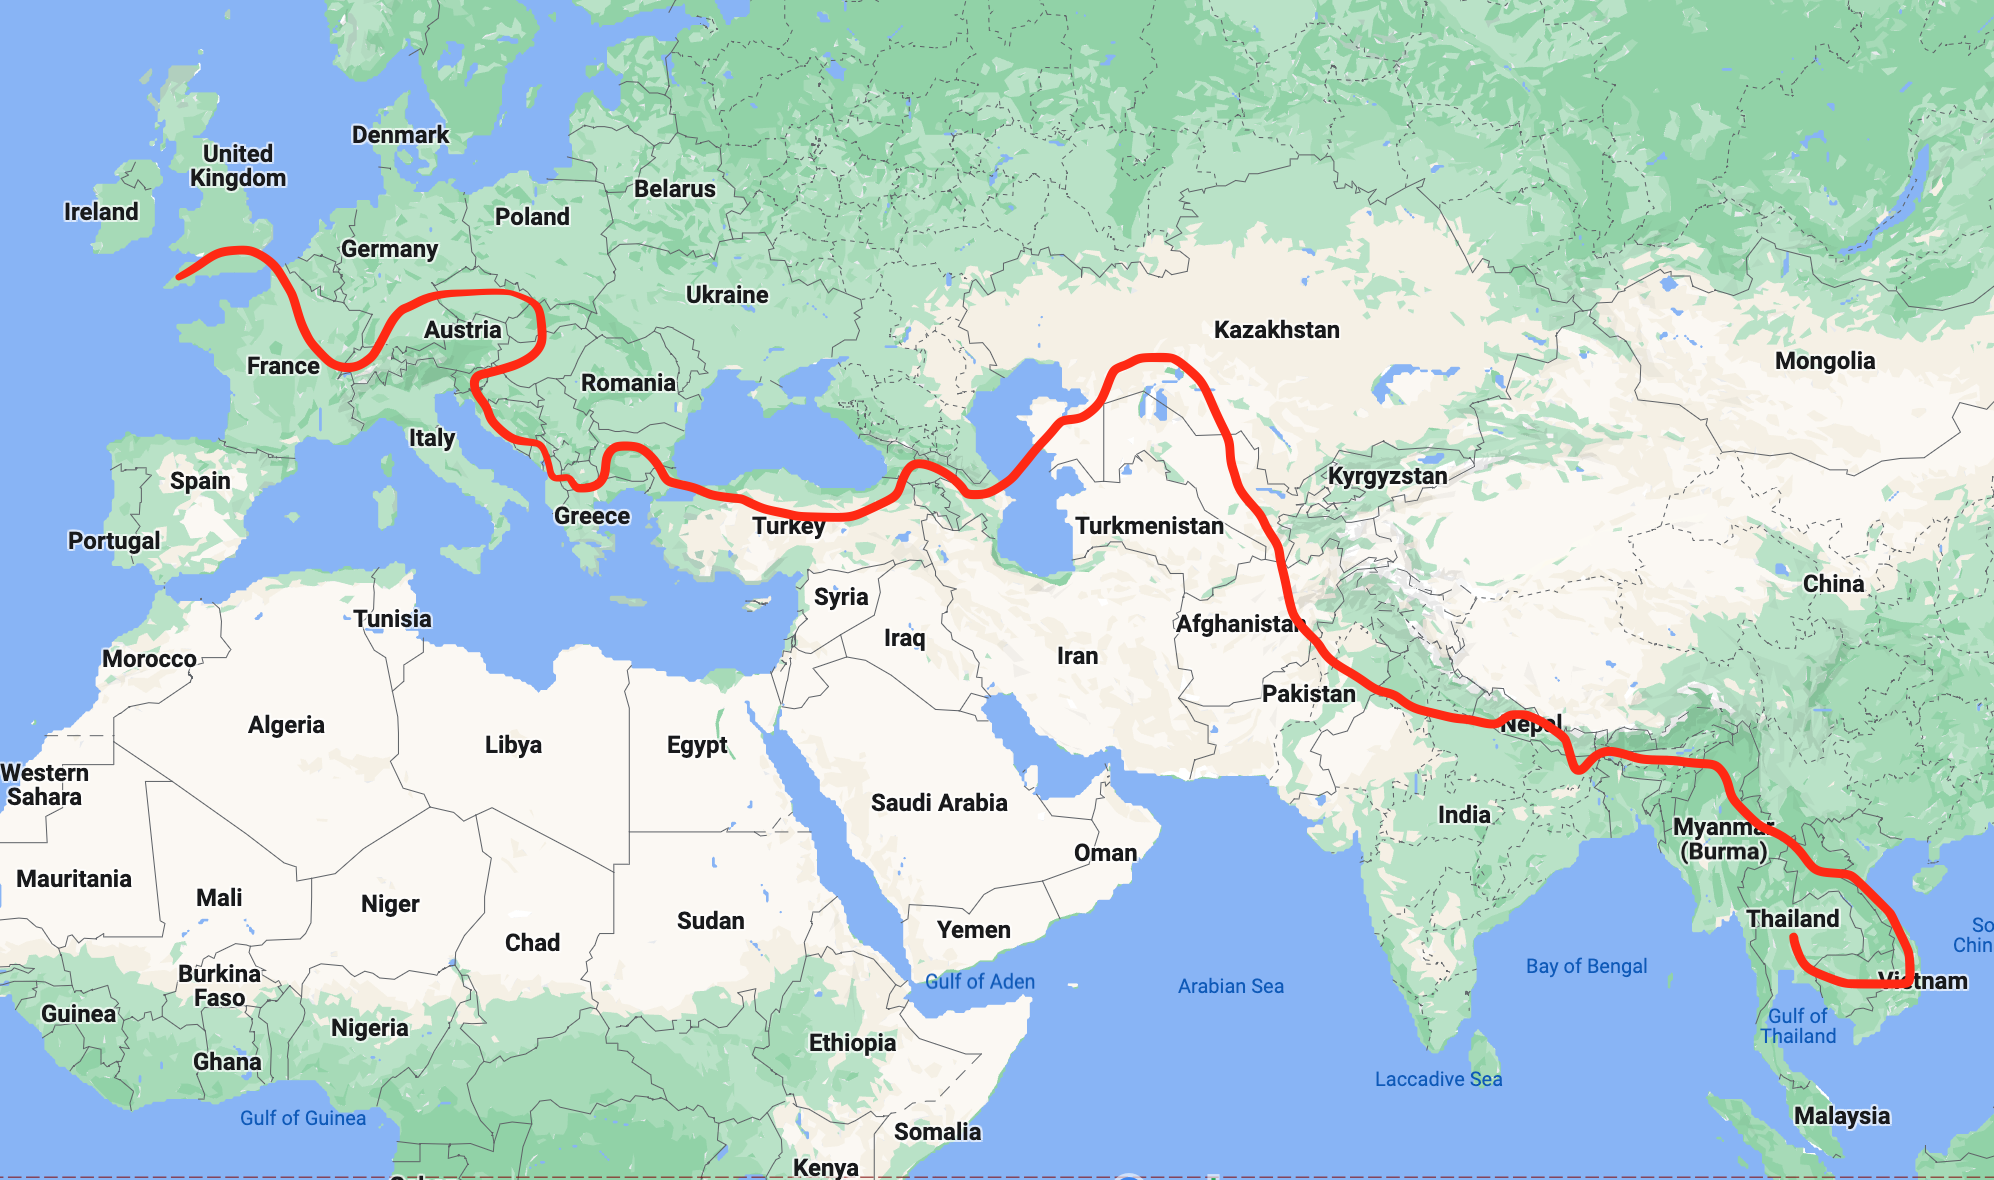
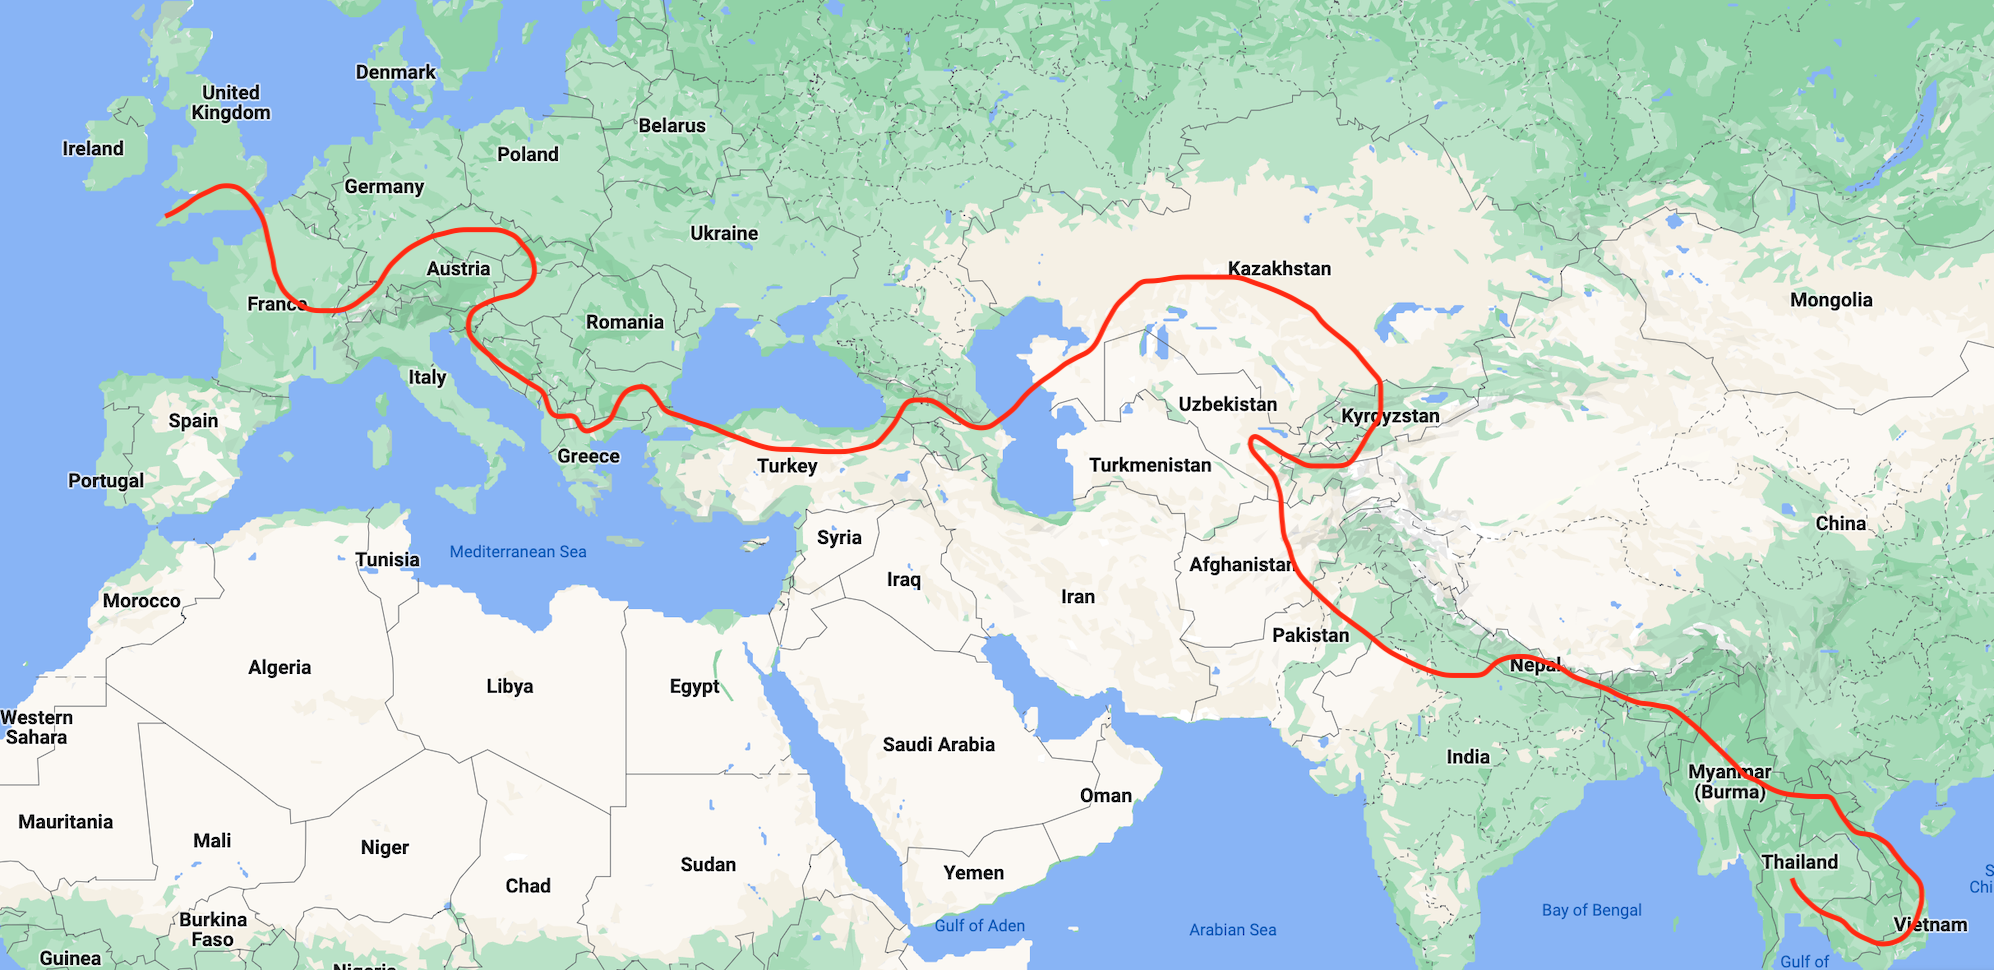
Route image change

diff --git a/public/index.html b/public/index.html
@@ -127,7 +127,7 @@ ga('send', 'pageview');
 <h2 id="The-final-bag…"><a href="#The-final-bag…" class="headerlink" title="The final bag…"></a>The final bag…</h2><p>My bag is the Osprey Fairview 55 litres. It includes a day pack that attaches to the main bag.<br>I’m also taking a small cross-body bag.</p>
 <a href="/2022/03/18/the-beginning/Packed.png" class="gallery-item"><img src="/2022/03/18/the-beginning/Packed.png" class=""></a>
 
-<p>So there we are, packed and ready to go!<br>I’ll have to buy some warm weather clothes when I move into colder climates, and perhaps some hiking boots, but hopefully this will have me sorted for the first 6 months.</p>
+<p>So there we are, packed and ready to go!<br>I’ll have to buy some warmer clothes when I move into colder climates, and perhaps some hiking boots, but hopefully this will have me sorted for the first 6 months.</p>
 </div><script src="https://cdn.jsdelivr.net/lightgallery.js/1.0.1/js/lightgallery.min.js"></script><script>if (typeof lightGallery !== 'undefined') {
         var options = {
             selector: '.gallery-item'
@@ -164,7 +164,7 @@ function addLoadEvent(func) {
       
     </div>
     <footer class="article-footer">
-      <a data-url="https://megcox.github.io/2022/03/18/the-beginning/" data-id="cl2t6etn3000ccxw5g4jg3d4o" class="article-share-link">Share</a>
+      <a data-url="https://megcox.github.io/2022/03/18/the-beginning/" data-id="cl2t6q6530008ksw580zva44s" class="article-share-link">Share</a>
       
       
     </footer>
@@ -245,7 +245,7 @@ function addLoadEvent(func) {
       
     </div>
     <footer class="article-footer">
-      <a data-url="https://megcox.github.io/2022/03/18/moon/" data-id="cl2t6etn10009cxw55uy56bp9" class="article-share-link">Share</a>
+      <a data-url="https://megcox.github.io/2022/03/18/moon/" data-id="cl2t6q64z0004ksw51qsj0oc1" class="article-share-link">Share</a>
       
       
     </footer>
@@ -320,7 +320,7 @@ function addLoadEvent(func) {
       
     </div>
     <footer class="article-footer">
-      <a data-url="https://megcox.github.io/2022/03/18/food/" data-id="cl2t6etmw0003cxw5gy9h8ou6" class="article-share-link">Share</a>
+      <a data-url="https://megcox.github.io/2022/03/18/food/" data-id="cl2t6q64y0003ksw5hdhlgm94" class="article-share-link">Share</a>
       
       
     </footer>
@@ -395,7 +395,7 @@ function addLoadEvent(func) {
       
     </div>
     <footer class="article-footer">
-      <a data-url="https://megcox.github.io/2022/03/18/people/" data-id="cl2t6etn2000acxw5etoc2dlr" class="article-share-link">Share</a>
+      <a data-url="https://megcox.github.io/2022/03/18/people/" data-id="cl2t6q6530007ksw584sr61s2" class="article-share-link">Share</a>
       
       
     </footer>
@@ -469,7 +469,7 @@ function addLoadEvent(func) {
       
     </div>
     <footer class="article-footer">
-      <a data-url="https://megcox.github.io/2022/03/18/nature/" data-id="cl2t6etmy0004cxw5c1xy0hlj" class="article-share-link">Share</a>
+      <a data-url="https://megcox.github.io/2022/03/18/nature/" data-id="cl2t6q6520006ksw51vludqbe" class="article-share-link">Share</a>
       
       
     </footer>
@@ -540,7 +540,7 @@ function addLoadEvent(func) {
       
     </div>
     <footer class="article-footer">
-      <a data-url="https://megcox.github.io/2022/02/23/Welcome/" data-id="cl2t6etmt0001cxw5b0gt8zmb" class="article-share-link">Share</a>
+      <a data-url="https://megcox.github.io/2022/02/23/Welcome/" data-id="cl2t6q64u0001ksw53w014xz4" class="article-share-link">Share</a>
       
       
     </footer>

diff --git a/public/2022/03/18/the-beginning/index.html b/public/2022/03/18/the-beginning/index.html
@@ -41,7 +41,7 @@ ga('send', 'pageview');
 <meta property="og:image" content="https://megcox.github.io/2022/03/18/the-beginning/Toiletries.png">
 <meta property="og:image" content="https://megcox.github.io/2022/03/18/the-beginning/Packed.png">
 <meta property="article:published_time" content="2022-03-18T15:32:49.000Z">
-<meta property="article:modified_time" content="2022-05-05T15:25:30.465Z">
+<meta property="article:modified_time" content="2022-05-05T15:49:26.474Z">
 <meta property="article:author" content="Meg Cox (with a special thanks to Sam Stenner for being a tech guru)">
 <meta name="twitter:card" content="summary">
 <meta name="twitter:image" content="https://megcox.github.io/2022/03/18/the-beginning/General.png">
@@ -134,7 +134,7 @@ ga('send', 'pageview');
 <h2 id="The-final-bag…"><a href="#The-final-bag…" class="headerlink" title="The final bag…"></a>The final bag…</h2><p>My bag is the Osprey Fairview 55 litres. It includes a day pack that attaches to the main bag.<br>I’m also taking a small cross-body bag.</p>
 <a href="/2022/03/18/the-beginning/Packed.png" class="gallery-item"><img src="/2022/03/18/the-beginning/Packed.png" class=""></a>
 
-<p>So there we are, packed and ready to go!<br>I’ll have to buy some warm weather clothes when I move into colder climates, and perhaps some hiking boots, but hopefully this will have me sorted for the first 6 months.</p>
+<p>So there we are, packed and ready to go!<br>I’ll have to buy some warmer clothes when I move into colder climates, and perhaps some hiking boots, but hopefully this will have me sorted for the first 6 months.</p>
 </div><script src="https://cdn.jsdelivr.net/lightgallery.js/1.0.1/js/lightgallery.min.js"></script><script>if (typeof lightGallery !== 'undefined') {
         var options = {
             selector: '.gallery-item'
@@ -171,7 +171,7 @@ function addLoadEvent(func) {
       
     </div>
     <footer class="article-footer">
-      <a data-url="https://megcox.github.io/2022/03/18/the-beginning/" data-id="cl2t6etn3000ccxw5g4jg3d4o" class="article-share-link">Share</a>
+      <a data-url="https://megcox.github.io/2022/03/18/the-beginning/" data-id="cl2t6q6530008ksw580zva44s" class="article-share-link">Share</a>
       
       
     </footer>

diff --git a/public/2022/02/23/Welcome/index.html b/public/2022/02/23/Welcome/index.html
@@ -153,7 +153,7 @@ function addLoadEvent(func) {
       
     </div>
     <footer class="article-footer">
-      <a data-url="https://megcox.github.io/2022/02/23/Welcome/" data-id="cl2t6etmt0001cxw5b0gt8zmb" class="article-share-link">Share</a>
+      <a data-url="https://megcox.github.io/2022/02/23/Welcome/" data-id="cl2t6q64u0001ksw53w014xz4" class="article-share-link">Share</a>
       
       
     </footer>

diff --git a/public/2022/03/18/nature/index.html b/public/2022/03/18/nature/index.html
@@ -156,7 +156,7 @@ function addLoadEvent(func) {
       
     </div>
     <footer class="article-footer">
-      <a data-url="https://megcox.github.io/2022/03/18/nature/" data-id="cl2t6etmy0004cxw5c1xy0hlj" class="article-share-link">Share</a>
+      <a data-url="https://megcox.github.io/2022/03/18/nature/" data-id="cl2t6q6520006ksw51vludqbe" class="article-share-link">Share</a>
       
       
     </footer>

diff --git a/public/2022/03/18/people/index.html b/public/2022/03/18/people/index.html
@@ -157,7 +157,7 @@ function addLoadEvent(func) {
       
     </div>
     <footer class="article-footer">
-      <a data-url="https://megcox.github.io/2022/03/18/people/" data-id="cl2t6etn2000acxw5etoc2dlr" class="article-share-link">Share</a>
+      <a data-url="https://megcox.github.io/2022/03/18/people/" data-id="cl2t6q6530007ksw584sr61s2" class="article-share-link">Share</a>
       
       
     </footer>

diff --git a/public/about/index-1.html b/public/about/index-1.html
@@ -148,7 +148,7 @@ function addLoadEvent(func) {
       
     </div>
     <footer class="article-footer">
-      <a data-url="https://megcox.github.io/about/index-1.html" data-id="cl2t6etmp0000cxw568rv3735" class="article-share-link">Share</a>
+      <a data-url="https://megcox.github.io/about/index-1.html" data-id="cl2t6q64q0000ksw5d3h4eg7s" class="article-share-link">Share</a>
       
       
     </footer>

diff --git a/public/2022/03/18/food/index.html b/public/2022/03/18/food/index.html
@@ -157,7 +157,7 @@ function addLoadEvent(func) {
       
     </div>
     <footer class="article-footer">
-      <a data-url="https://megcox.github.io/2022/03/18/food/" data-id="cl2t6etmw0003cxw5gy9h8ou6" class="article-share-link">Share</a>
+      <a data-url="https://megcox.github.io/2022/03/18/food/" data-id="cl2t6q64y0003ksw5hdhlgm94" class="article-share-link">Share</a>
       
       
     </footer>

diff --git a/public/2022/03/18/moon/index.html b/public/2022/03/18/moon/index.html
@@ -163,7 +163,7 @@ function addLoadEvent(func) {
       
     </div>
     <footer class="article-footer">
-      <a data-url="https://megcox.github.io/2022/03/18/moon/" data-id="cl2t6etn10009cxw55uy56bp9" class="article-share-link">Share</a>
+      <a data-url="https://megcox.github.io/2022/03/18/moon/" data-id="cl2t6q64z0004ksw51qsj0oc1" class="article-share-link">Share</a>
       
       
     </footer>

diff --git a/public/about/index.html b/public/about/index.html
@@ -153,7 +153,7 @@ function addLoadEvent(func) {
       
     </div>
     <footer class="article-footer">
-      <a data-url="https://megcox.github.io/about/index.html" data-id="cl2t6etmw0002cxw58kceg4vy" class="article-share-link">Share</a>
+      <a data-url="https://megcox.github.io/about/index.html" data-id="cl2t6q64x0002ksw5bfsodx8u" class="article-share-link">Share</a>
       
       
     </footer>

diff --git a/source/_posts/Welcome.md b/source/_posts/Welcome.md
@@ -9,3 +9,5 @@ You’re very welcome to join me on the evolution of this page and, more importa
 
 Route plan:
 {% asset_img Route.png %}
+
+*Disclaimer: You might note that my route goes through a few war zones, but don't worry I'm not completely insane! If they are still not great places to travel through (I'm not holding my breath), I will fly over them. Currently it's looking like I'll be flying from Uzbekistan to Nepal, and from Nepal to Thailand.*
